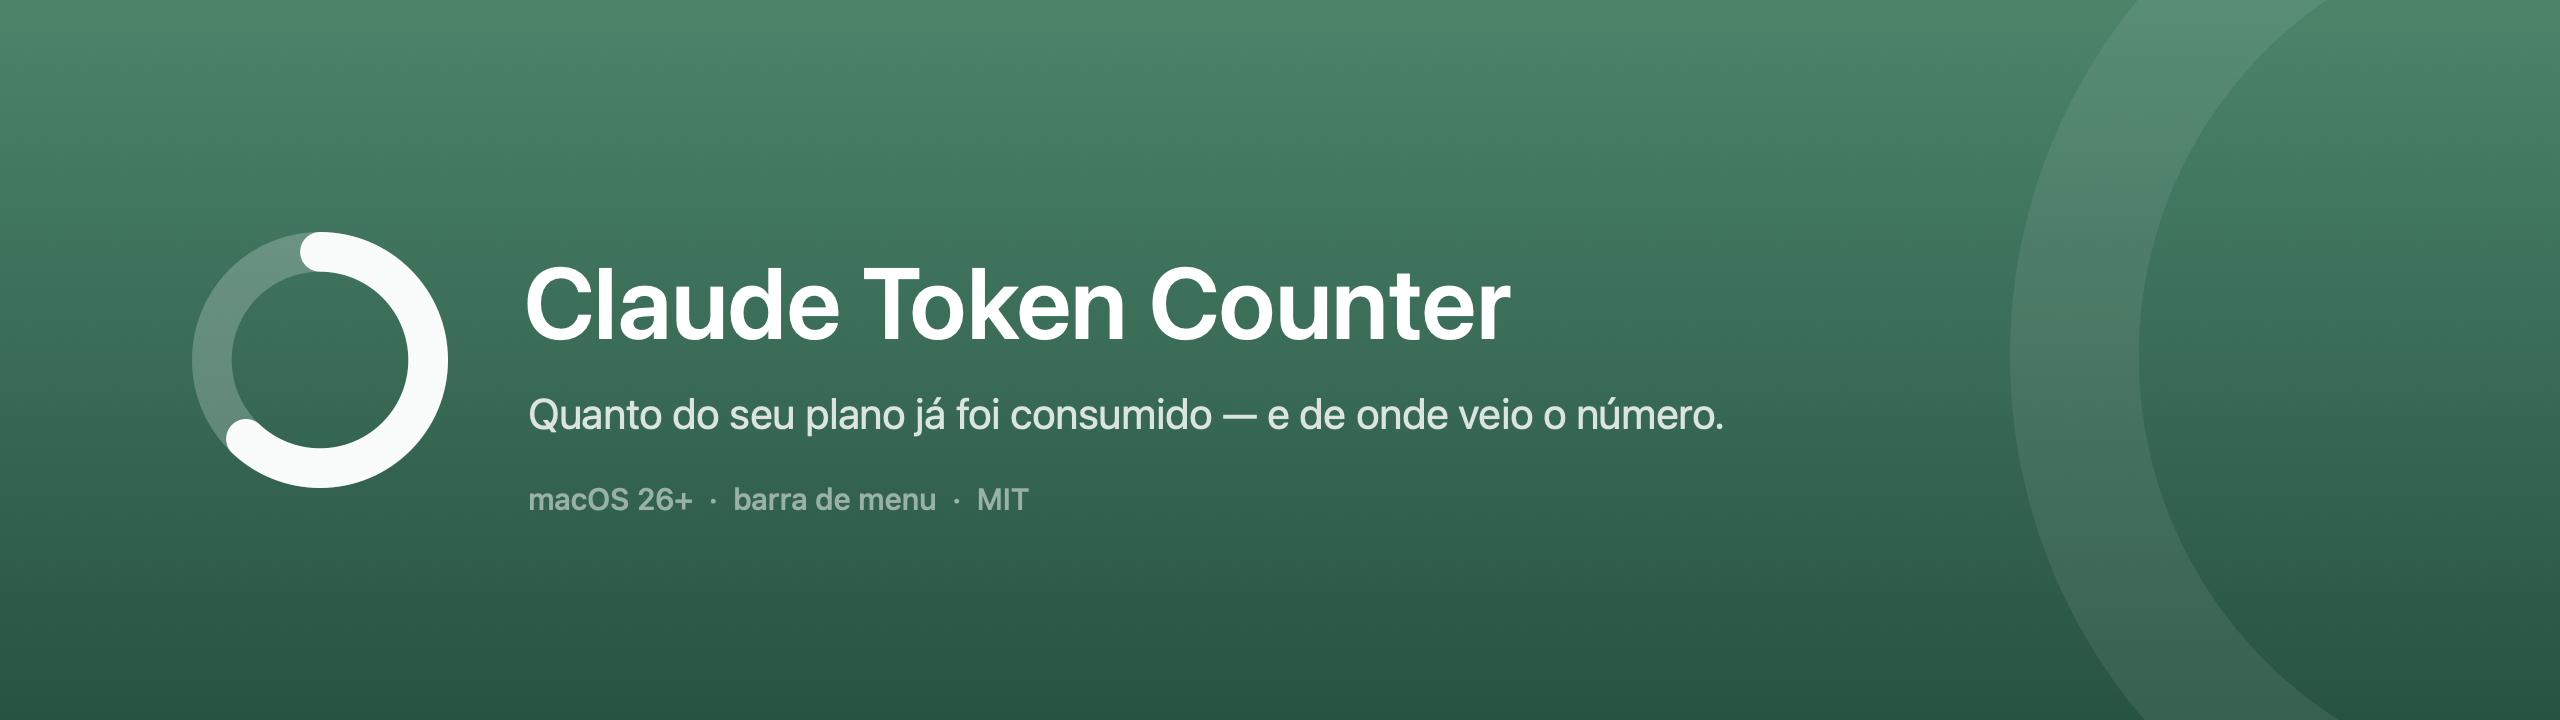
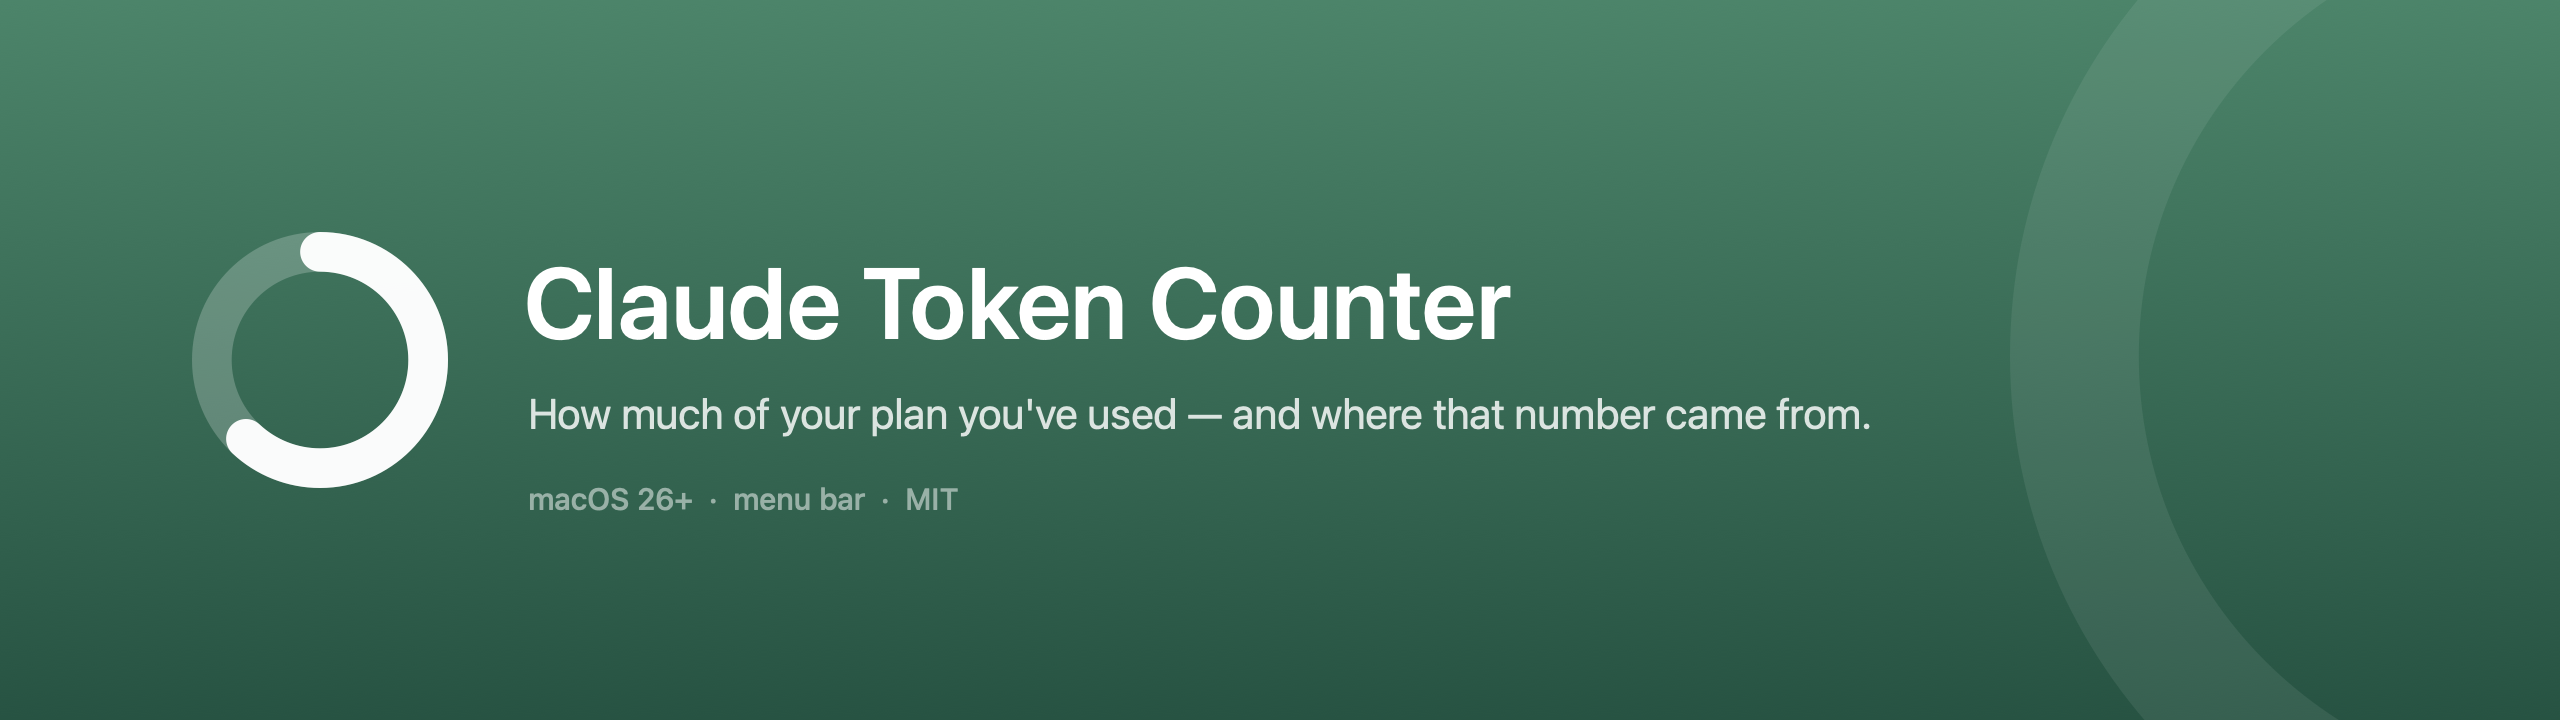
docs: pagina do projeto em ingles, e instalador neutro de idioma
README, tagline do banner e card social em ingles. E a convencao de open source
e multiplica quem chega no projeto — o app ja alcanca mais gente do que a pagina
que o apresenta.

O fundo do instalador **perde** a frase de arrastar em vez de traduzi-la. O
Finder ja mostra o icone, a seta e a pasta de destino com o nome no idioma de
quem abriu — Applications, Aplicativos, アプリケーション. A frase repetia em
portugues o que a janela ja diz na lingua certa, e obrigaria a gerar uma arte por
idioma para um DMG que e montado uma vez so. Sem ela o instalador fica neutro e
mais limpo.

Fica o rodape de requisitos, que carrega informacao real, em ingles pela mesma
razao do banner: um arquivo servido para todo mundo.

README ganhou secao de Alertas e de Idiomas, e a nota de que os comentarios do
codigo seguem em portugues por decisao.

Changed region(s): [[0.1875, 0.55, 0.7188, 0.6111], [0.2812, 0.6722, 0.4062, 0.7333]]

diff --git a/Scripts/icon.swift b/Scripts/icon.swift
@@ -246,11 +246,13 @@ func drawInstallerBackground(size: CGSize, scale: CGFloat, in context: CGContext
                                end: CGPoint(x: rect.midX, y: rect.height),
                                options: [])
 
+    // Só o nome. A instrução de arrastar foi removida de propósito: o Finder já
+    // mostra o ícone, a seta e a pasta de destino **com o nome no idioma de
+    // quem abriu** — "Applications", "Aplicativos", "アプリケーション". A frase
+    // repetia em português o que a janela já diz na língua certa, e obrigaria a
+    // gerar uma arte por idioma para um DMG que é montado uma vez só.
     drawText("Claude Token Counter", font: .systemFont(ofSize: 22, weight: .semibold),
-             color: Palette.ink, centeredAt: CGPoint(x: rect.midX, y: 56), in: context)
-    drawText("Arraste para a pasta Aplicativos",
-             font: .systemFont(ofSize: 13, weight: .regular),
-             color: Palette.inkFaint, centeredAt: CGPoint(x: rect.midX, y: 84), in: context)
+             color: Palette.ink, centeredAt: CGPoint(x: rect.midX, y: 62), in: context)
 
     // Um halo suave atrás de onde o Finder vai pôr o app: sem ele, o olho não
     // tem por onde começar numa janela que é quase toda branca.
@@ -289,7 +291,9 @@ func drawInstallerBackground(size: CGSize, scale: CGFloat, in context: CGContext
     // Rodapé com os dois requisitos que fazem o app simplesmente não abrir. É a
     // informação mais útil que cabe aqui, e o instalador é o último momento em
     // que alguém a lê antes de concluir que o app está quebrado.
-    drawText("Requer macOS 26 ou mais recente  ·  Intel e Apple Silicon",
+    // O rodapé carrega informação real, e por isso fica — em inglês, porque o
+    // DMG é servido para todo mundo a partir de um arquivo só.
+    drawText("Requires macOS 26 or later  ·  Intel and Apple Silicon",
              font: .systemFont(ofSize: 11, weight: .regular),
              color: CGColor(gray: 0.58, alpha: 1),
              centeredAt: CGPoint(x: rect.midX, y: 352), in: context)
@@ -299,7 +303,9 @@ func drawInstallerBackground(size: CGSize, scale: CGFloat, in context: CGContext
 
 // MARK: - Banner e card social
 
-let tagline = "Quanto do seu plano já foi consumido — e de onde veio o número."
+/// Em inglês: banner e card social são a página do projeto, servida a partir de
+/// um arquivo só para quem chegar de qualquer lugar.
+let tagline = "How much of your plan you've used — and where that number came from."
 
 /// Fundo escuro da marca, com um anel enorme sangrando pela borda. O anel
 /// gigante é o mesmo `drawRing` — a marca aparece duas vezes, em escalas
@@ -343,7 +349,7 @@ func drawBanner(in context: CGContext, scale: CGFloat) {
              color: CGColor(gray: 1, alpha: 1), leftAt: CGPoint(x: 262, y: 140), in: context)
     drawText(tagline, font: .systemFont(ofSize: 21, weight: .regular),
              color: CGColor(gray: 1, alpha: 0.82), leftAt: CGPoint(x: 264, y: 202), in: context)
-    drawText("macOS 26+  ·  barra de menu  ·  MIT",
+    drawText("macOS 26+  ·  menu bar  ·  MIT",
              font: .systemFont(ofSize: 15, weight: .medium),
              color: CGColor(gray: 1, alpha: 0.5), leftAt: CGPoint(x: 264, y: 246), in: context)
 

diff --git a/README.md b/README.md
@@ -2,164 +2,190 @@
 
 # Claude Token Counter
 
-App de menu bar para macOS que mostra quanto do seu plano Claude Code já foi
-consumido — e, principalmente, **de onde esse número veio**.
+A macOS menu bar app that shows how much of your Claude Code plan you've used —
+and, more importantly, **where that number came from**.
 
 ```
-◐ 81%   ← quanto da janela de 5h já foi gasto, ao vivo
+◐ 81%   ← how much of the 5-hour window is spent, live
 ```
 
-<img src="docs/art/panel.png" alt="O app na barra de menu mostrando o anel de consumo e 35%, com o painel aberto abaixo: sessão de 5h e janela semanal com horário de reset, e o valor equivalente em API de hoje, da semana e do mês" width="420">
+<img src="docs/art/panel.png" alt="The app in the menu bar showing the usage ring at 35%, with the panel open below: the 5-hour session and weekly window with reset times, and the API-equivalent value for today, this week and this month" width="420">
 
-## Por que ele existe
+## Why it exists
 
-O Claude Code guarda em `~/.claude.json` um cache com o seu consumo. Esse cache
-**só se atualiza quando o Claude Code roda**.
+Claude Code keeps a cache of your usage in `~/.claude.json`. That cache **only
+updates while Claude Code is running**.
 
-Numa medição real feita durante o desenvolvimento, o cache estava **18 horas
-atrasado**: dizia 35% de uso na janela de 5 horas quando o valor verdadeiro era
-**81%**. Um app que lesse só o cache diria que você tem folga de sobra
-justamente quando você está prestes a bater o teto.
+In a real measurement taken during development, the cache was **18 hours
+stale**: it reported 35% of the 5-hour window used when the true figure was
+**81%**. An app reading only that cache would tell you there's plenty of room
+left at exactly the moment you're about to hit the ceiling.
 
-Este app busca os números ao vivo, e quando não consegue, **diz que não
-conseguiu** em vez de mostrar um valor velho com cara de fresco.
+This app fetches the numbers live, and when it can't, it **says so** instead of
+showing an old value with a fresh face.
 
-## Três fontes, e a tela sempre diz qual está em uso
+## Three sources, and the screen always says which one is in use
 
-| Fonte | Quando | O que a tela mostra |
+| Source | When | What the screen shows |
 |---|---|---|
-| **Ao vivo** | Toggle ligado, credencial válida | `ao vivo` |
-| **Cache do Claude Code** | Toggle desligado, ou busca falhou | `cache do Claude Code · há 20m`, ou **`cache defasada · há 18h`** em amarelo quando passa de 1h |
-| **Derivado do histórico** | Sem cache — instalação nova | `estimado do seu histórico` |
+| **Live** | Toggle on, valid credential | `live` |
+| **Claude Code cache** | Toggle off, or the fetch failed | `Claude Code cache · 20m ago`, or **`stale cache · 18h old`** in amber past one hour |
+| **Derived from history** | No cache — fresh install | `estimated from your history` |
 
-Um número sem procedência é um número em que não dá para confiar. Cada estado
-de falha tem frase própria, porque a saída é diferente: credencial expirada
-pede que você rode o Claude Code; falha de rede pede que você espere.
+A number without provenance is a number you can't trust. Each failure state gets
+its own sentence, because the way out differs: an expired credential asks you to
+run Claude Code; a network failure asks you to wait.
 
-## O que ele mostra
+## What it shows
 
-- **Sessão (5h) e semanal**, com horário de reset e contagem regressiva
-- **Janelas semanais por modelo**, quando a sua conta tem alguma com uso
-- **Valor equivalente em API** — tokens e US$ de hoje, da semana e do mês,
-  com preço por modelo *e por data*; modelo sem preço conhecido nunca vira
-  US$ 0,00, o total é marcado como parcial
-- **Múltiplo de retorno** do plano: quanto o consumo do mês cobre a mensalidade
+- **Session (5h) and weekly**, with reset times and countdowns
+- **Per-model weekly windows**, when your account has any with usage
+- **API-equivalent value** — tokens and USD for today, this week and this month,
+  priced per model *and per date*; a model with no known price never becomes
+  $0.00, the total is marked partial instead
+- **Plan return multiple**: how far the month's usage covers the subscription
 
-## Instalação
+## Alerts
+
+The app can notify you before you hit the ceiling, and when a window resets and
+capacity comes back. Off by default — a notification is an interruption, and an
+interruption shouldn't be anything's initial state.
+
+Thresholds (80/90/95) and windows are configurable in Settings.
+
+**Alerts only fire on live data.** Built on the cache, an alert would be wrong in
+both directions — and the worse direction is silence while you blow past the
+ceiling. Turn alerts on without live fetching and the app tells you once, with a
+button to fix it, rather than notifying you badly.
+
+## Install
 
 ### DMG
 
-Baixe o `.dmg` da [última release](../../releases/latest), abra, e arraste o app
-para a pasta `Applications` que aparece na janela.
+Download the `.dmg` from the [latest release](../../releases/latest), open it,
+and drag the app onto the `Applications` folder in the window.
 
-O app é assinado ad-hoc, não notarizado pela Apple. Na primeira abertura o
-macOS vai bloqueá-lo — o DMG deixa a instalação familiar, mas não muda isso.
-Duas formas de liberar:
+The app is ad-hoc signed, not notarized by Apple. macOS will block it on first
+launch — the DMG makes installation familiar, but it doesn't change that. Two
+ways through:
 
 ```bash
 xattr -d com.apple.quarantine /Applications/ClaudeTokenCounter.app
 ```
 
-Ou, sem terminal: tente abrir, deixe o macOS bloquear, e vá em **Ajustes do
-Sistema → Privacidade e Segurança**; role até o aviso e clique em **Abrir Assim
-Mesmo**.
+Or, without the terminal: try to open it, let macOS block it, then go to **System
+Settings → Privacy & Security**, scroll to the notice, and click **Open Anyway**.
 
-O truque antigo de clicar com o botão direito e escolher **Abrir** não funciona
-mais: a Apple removeu esse atalho no macOS 15, e este app exige macOS 26.
+The old trick of right-clicking and choosing **Open** no longer works: Apple
+removed that bypass in macOS 15, and this app requires macOS 26.
 
-Isso não é um contorno de segurança — é o que o macOS pede para qualquer app
-fora da App Store sem conta paga de desenvolvedor. O código está todo aqui para
-você conferir, e compilar você mesmo leva menos de dez segundos.
+This isn't a security workaround — it's what macOS asks for any app distributed
+outside the App Store without a paid developer account. The code is all here for
+you to check, and building it yourself takes under ten seconds.
 
-### Do código-fonte
+### From source
 
-Não precisa de Xcode — só Command Line Tools com Swift 6.4+.
+No Xcode needed — just Command Line Tools with Swift 6.4+.
 
 ```bash
 git clone https://github.com/Ulpio/ClaudeTokenCounter.git
 cd ClaudeTokenCounter
-./Scripts/bundle.sh --install    # monta e copia para /Applications
+./Scripts/bundle.sh --install    # builds and copies to /Applications
 ```
 
-Compilar localmente também evita o passo do Gatekeeper: o `.app` que você mesmo
-montou não chega com a marca de quarentena.
+Building locally also skips the Gatekeeper step: an app you assembled yourself
+never carries the quarantine flag.
 
-Requer **macOS 26+**. O binário publicado é universal — roda em Apple Silicon e
-nos Macs Intel que ainda alcançam o macOS 26.
+Requires **macOS 26+**. The published binary is universal — it runs on Apple
+Silicon and on the Intel Macs that still reach macOS 26.
 
-## Privacidade
+## Languages
 
-O app roda inteiro na sua máquina. Não há servidor, telemetria, nem analytics.
+English and Brazilian Portuguese, following your system language. Any other
+locale falls back to English.
 
-**Leitura local:** `~/.claude/projects/**/*.jsonl` (somente leitura, para tokens
-e custo) e `~/.claude.json` (o cache de uso).
+## Privacy
 
-**Keychain:** o item `Claude Code-credentials`, que pertence ao Claude Code.
-Por padrão o app lê **apenas** o campo `rateLimitTier`, para detectar seu plano.
+The app runs entirely on your machine. No server, no telemetry, no analytics.
 
-O `accessToken` só é lido quando você liga **Ajustes → Números de uso → Buscar
-ao vivo**, e mesmo então por um único ponto do código, atrás de uma checagem
-do toggle. Com ele desligado, o campo não chega a ser extraído.
+**Local reads:** `~/.claude/projects/**/*.jsonl` (read-only, for tokens and
+cost) and `~/.claude.json` (the usage cache).
 
-O `refreshToken` **não tem leitor nenhum, em lugar nenhum do app** — e a
-garantia é estrutural, não uma promessa: o tipo `ClaudeCredentials` não tem
-campo onde guardá-lo. O app nunca renova OAuth, porque regravar o item de
-keychain do Claude Code pode invalidar a sessão dele.
+**Keychain:** the `Claude Code-credentials` item, which belongs to Claude Code.
+By default the app reads **only** the `rateLimitTier` field, to detect your plan.
 
-**Rede:** uma única chamada, `GET https://api.anthropic.com/api/oauth/usage`,
-a cada 5 minutos, e só com a busca ao vivo ligada. É a mesma chamada que o
-próprio Claude Code faz.
+The `accessToken` is read only when you turn on **Settings → Usage numbers →
+Fetch live**, and even then through a single point in the code, behind a check on
+that toggle. With it off, the field is never extracted.
 
-## Desenvolvimento
+The `refreshToken` **has no reader anywhere in the app** — and the guarantee is
+structural, not a promise: the `ClaudeCredentials` type has no field to hold it.
+The app never refreshes OAuth, because rewriting Claude Code's keychain item
+could invalidate its session.
+
+**Network:** a single call, `GET https://api.anthropic.com/api/oauth/usage`,
+every 5 minutes, and only with live fetching on. It's the same call Claude Code
+itself makes.
+
+## Development
 
 ```bash
-./Scripts/test.sh     # suíte do core (156 testes)
-./Scripts/icon.sh     # desenha o .icns, a arte do instalador, o banner e o card
-                      # social; com um caminho de captura, emoldura o screenshot
-./Scripts/release.sh  # testa, empacota, monta o DMG e publica (tem --dry-run)
-./Scripts/bundle.sh   # monta dist/ClaudeTokenCounter.app
-./Scripts/dmg.sh      # monta dist/ClaudeTokenCounter-<versão>.dmg
+./Scripts/test.sh          # core suite (178 tests) + string catalog check
+./Scripts/check-strings.sh # keys vs. catalogs, and loose literals in views
+./Scripts/icon.sh          # draws the .icns, installer art, banner and social
+                           # card; given a capture path, frames the screenshot
+./Scripts/bundle.sh        # assembles dist/ClaudeTokenCounter.app
+./Scripts/dmg.sh           # builds dist/ClaudeTokenCounter-<version>.dmg
+./Scripts/release.sh       # tests, packages, builds the DMG, publishes (--dry-run)
 ```
 
-**`swift test` puro não funciona** neste toolchain: o Command Line Tools traz o
-swift-testing mas não o conecta — o plugin de macros fica fora do plugin path e
-`Testing.framework` / `lib_TestingInterop.dylib` ficam fora do rpath do bundle
-de teste. `Scripts/test.sh` injeta os três caminhos e repassa os argumentos,
-então `./Scripts/test.sh --filter PricingTable` funciona normalmente.
+**Plain `swift test` does not work** in this toolchain: Command Line Tools ships
+swift-testing but doesn't wire it up — the macro plugin sits outside the plugin
+path, and `Testing.framework` / `lib_TestingInterop.dylib` sit outside the test
+bundle's rpath. `Scripts/test.sh` injects all three and forwards arguments, so
+`./Scripts/test.sh --filter PricingTable` works normally.
 
-Pela mesma razão o app não usa `@State`: no SDK do macOS 26 ele é uma macro do
-SwiftUI e o plugin `SwiftUIMacros` só acompanha o Xcode. O redesenho vem do
-`@Observable`, cujo plugin existe no CLT.
+For the same reason the app doesn't use `@State`: in the macOS 26 SDK it's a
+SwiftUI macro and the `SwiftUIMacros` plugin only ships with Xcode. Redraw comes
+from `@Observable`, whose plugin does exist in CLT.
 
-### Arquitetura
+Code comments are in Portuguese, by choice — it's the maintainers' language, and
+`CCUsageCore` is mostly comments explaining decisions.
 
-Dois alvos. `CCUsageCore` não importa SwiftUI — toda a lógica é testável sem
-instanciar janela.
+### Architecture
 
-A marca é um anel que se enche conforme a janela de 5h avança, e existe uma vez
-só: `GaugeGeometry`, no core, constrói o path. A barra de menu o desenha com a
-fração ao vivo, e `Scripts/icon.swift` — compilado junto com aquele mesmo
-arquivo — o congela em 62% para o ícone do app. Não é economia de código: é o
-que impede que o ícone e a barra virem dois desenhos parecidos que alguém
-precisa lembrar de manter em sincronia.
+Two targets. `CCUsageCore` doesn't import SwiftUI — all logic is testable
+without instantiating a window.
 
-A resposta ao vivo da API e o cache em `~/.claude.json` são **o mesmo payload**:
-o segundo é uma cópia gravada do primeiro. Por isso existe um decoder só
-(`UsageReportDecoder`) alimentado por duas origens, e uma função pura
-(`UsageSourcePolicy`) escolhe entre elas. Nada a jusante sabe de onde veio o
-número — exceto a linha da UI que existe para dizer.
+The live API response and the `~/.claude.json` cache are **the same payload**:
+the second is a written copy of the first. So there's one decoder
+(`UsageReportDecoder`) fed by two origins, and a pure function
+(`UsageSourcePolicy`) picks between them. Nothing downstream knows where the
+number came from — except the one UI line whose job is to say.
 
-O contrato lido é o array `limits[]`, não as chaves de topo do payload: aquelas
-são codinomes internos que giram a cada ciclo de produto, e é `limits[]` que
-traz as janelas por modelo com nome de exibição.
+The contract read is the `limits[]` array, not the payload's top-level keys:
+those are internal codenames that rotate every product cycle, and it's `limits[]`
+that carries the per-model windows with display names.
 
-Decisões de projeto estão em `docs/superpowers/specs/` e `docs/superpowers/plans/`.
+`AlertPolicy` is pure too, and takes no clock: given the same sequence of
+snapshots it produces the same alerts, which is what makes rearming and
+anti-repetition testable at all. The `Alert` type carries the fact — which
+window, what percentage — never the sentence. Wording lives in the UI target,
+alongside every other user-facing string, which is what allows localizing the app
+without localizing the core.
 
-## Créditos
+The mark is a ring that fills as the 5-hour window advances, and it exists once:
+`GaugeGeometry`, in the core, builds the path. The menu bar draws it with the
+live fraction, and `Scripts/icon.swift` — compiled against that same file —
+freezes it at 62% for the app icon.
 
-Inspirado no [CodexBar](https://github.com/steipete/CodexBar), de Peter
-Steinberger, que mostrou que o endpoint de uso existia e valia a pena.
+Design decisions live in `docs/superpowers/specs/` and `docs/superpowers/plans/`.
 
-## Licença
+## Credits
 
-MIT — veja [LICENSE](LICENSE).
+Inspired by [CodexBar](https://github.com/steipete/CodexBar) by Peter
+Steinberger, which showed the usage endpoint existed and was worth using.
+
+## License
+
+MIT — see [LICENSE](LICENSE).
